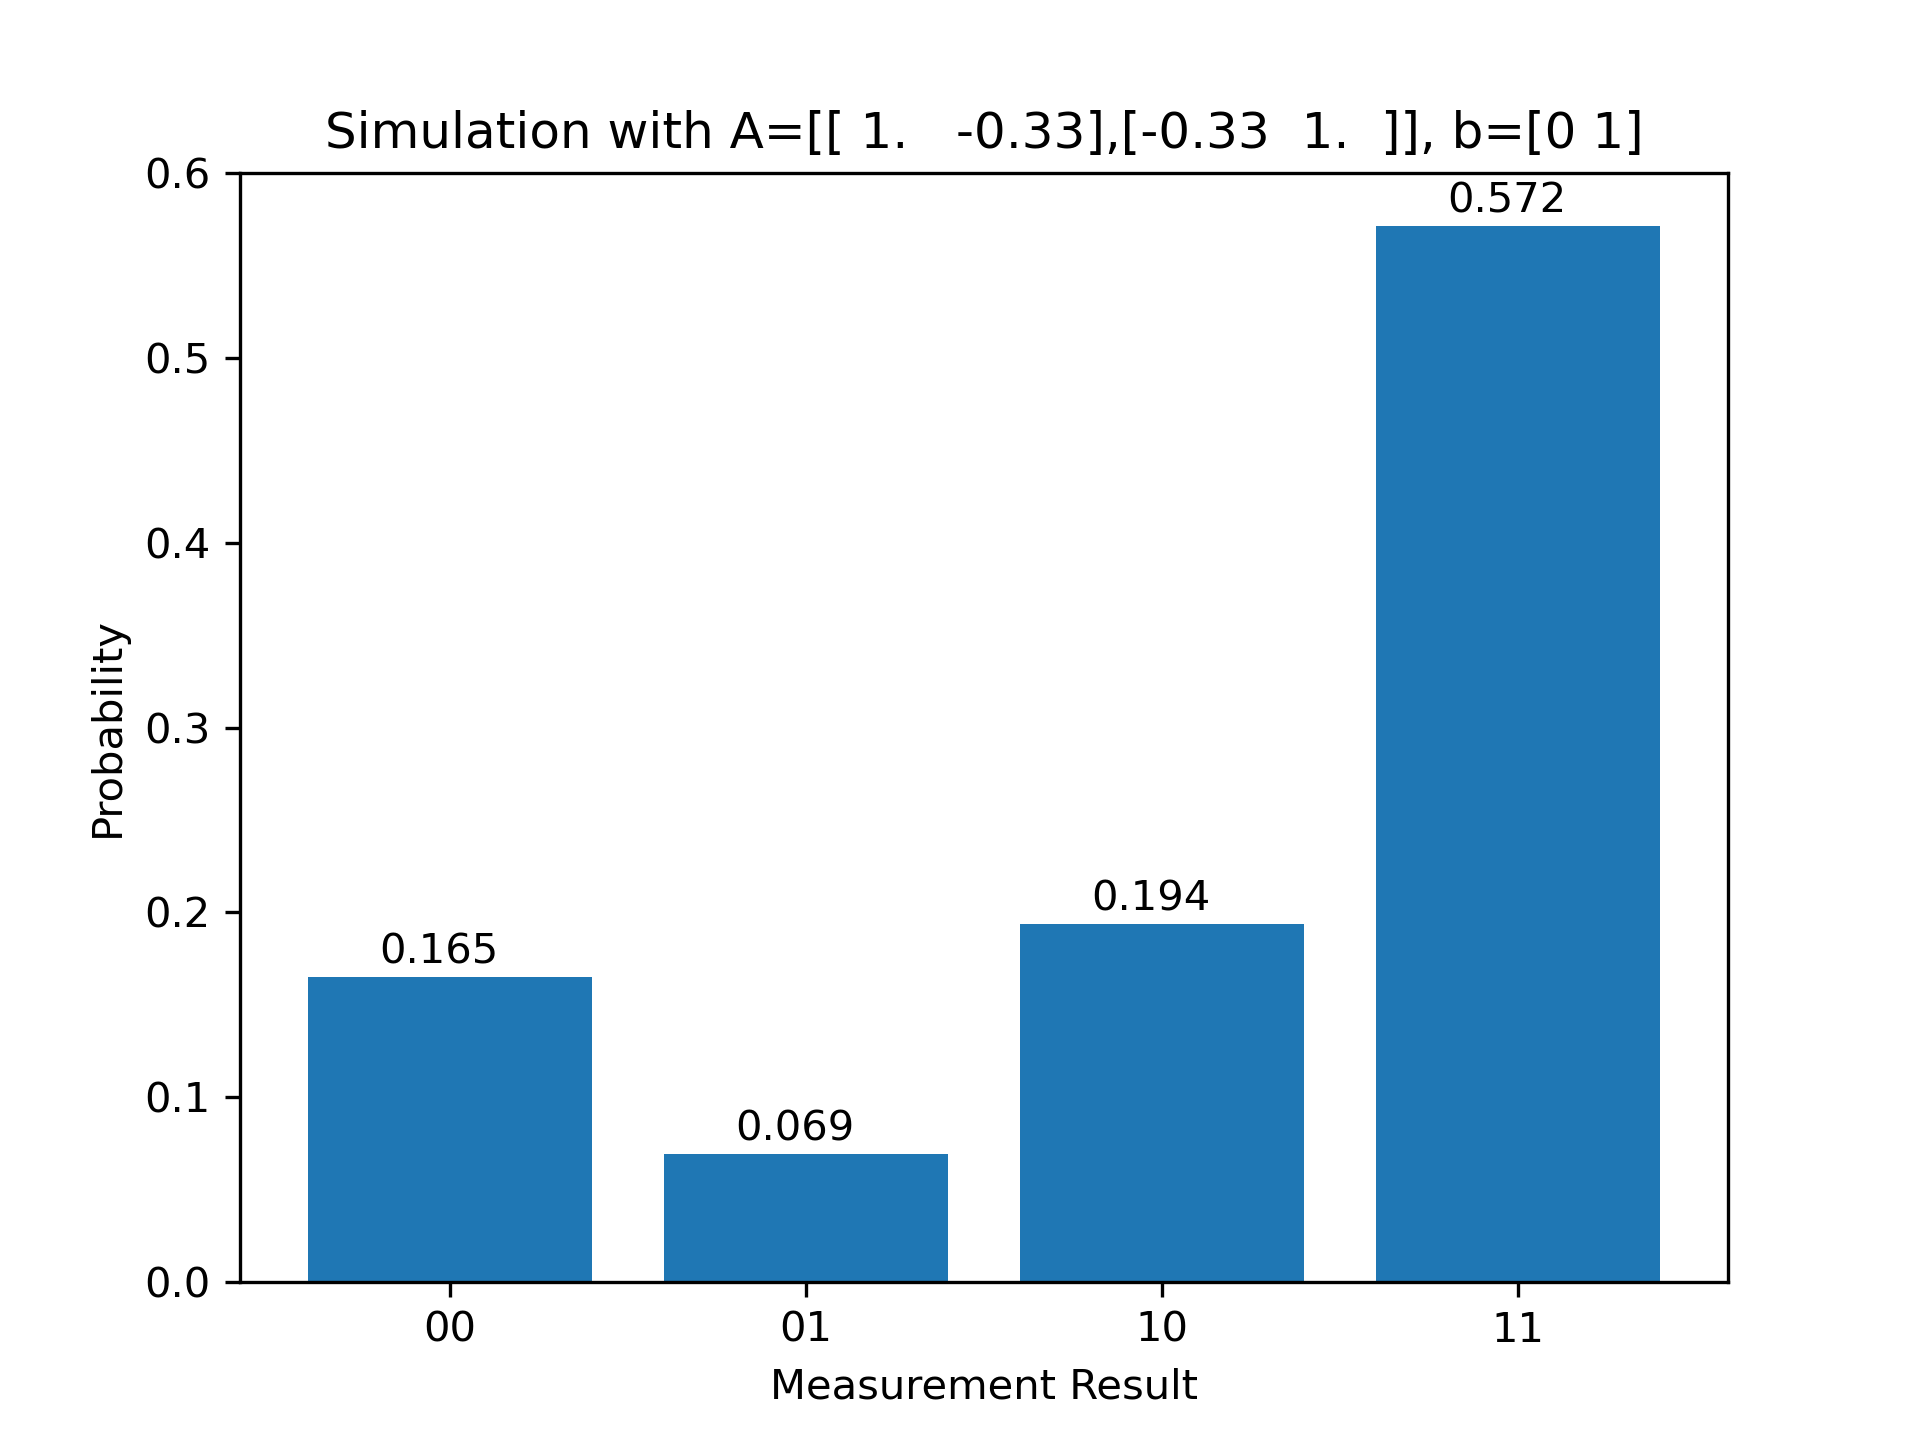
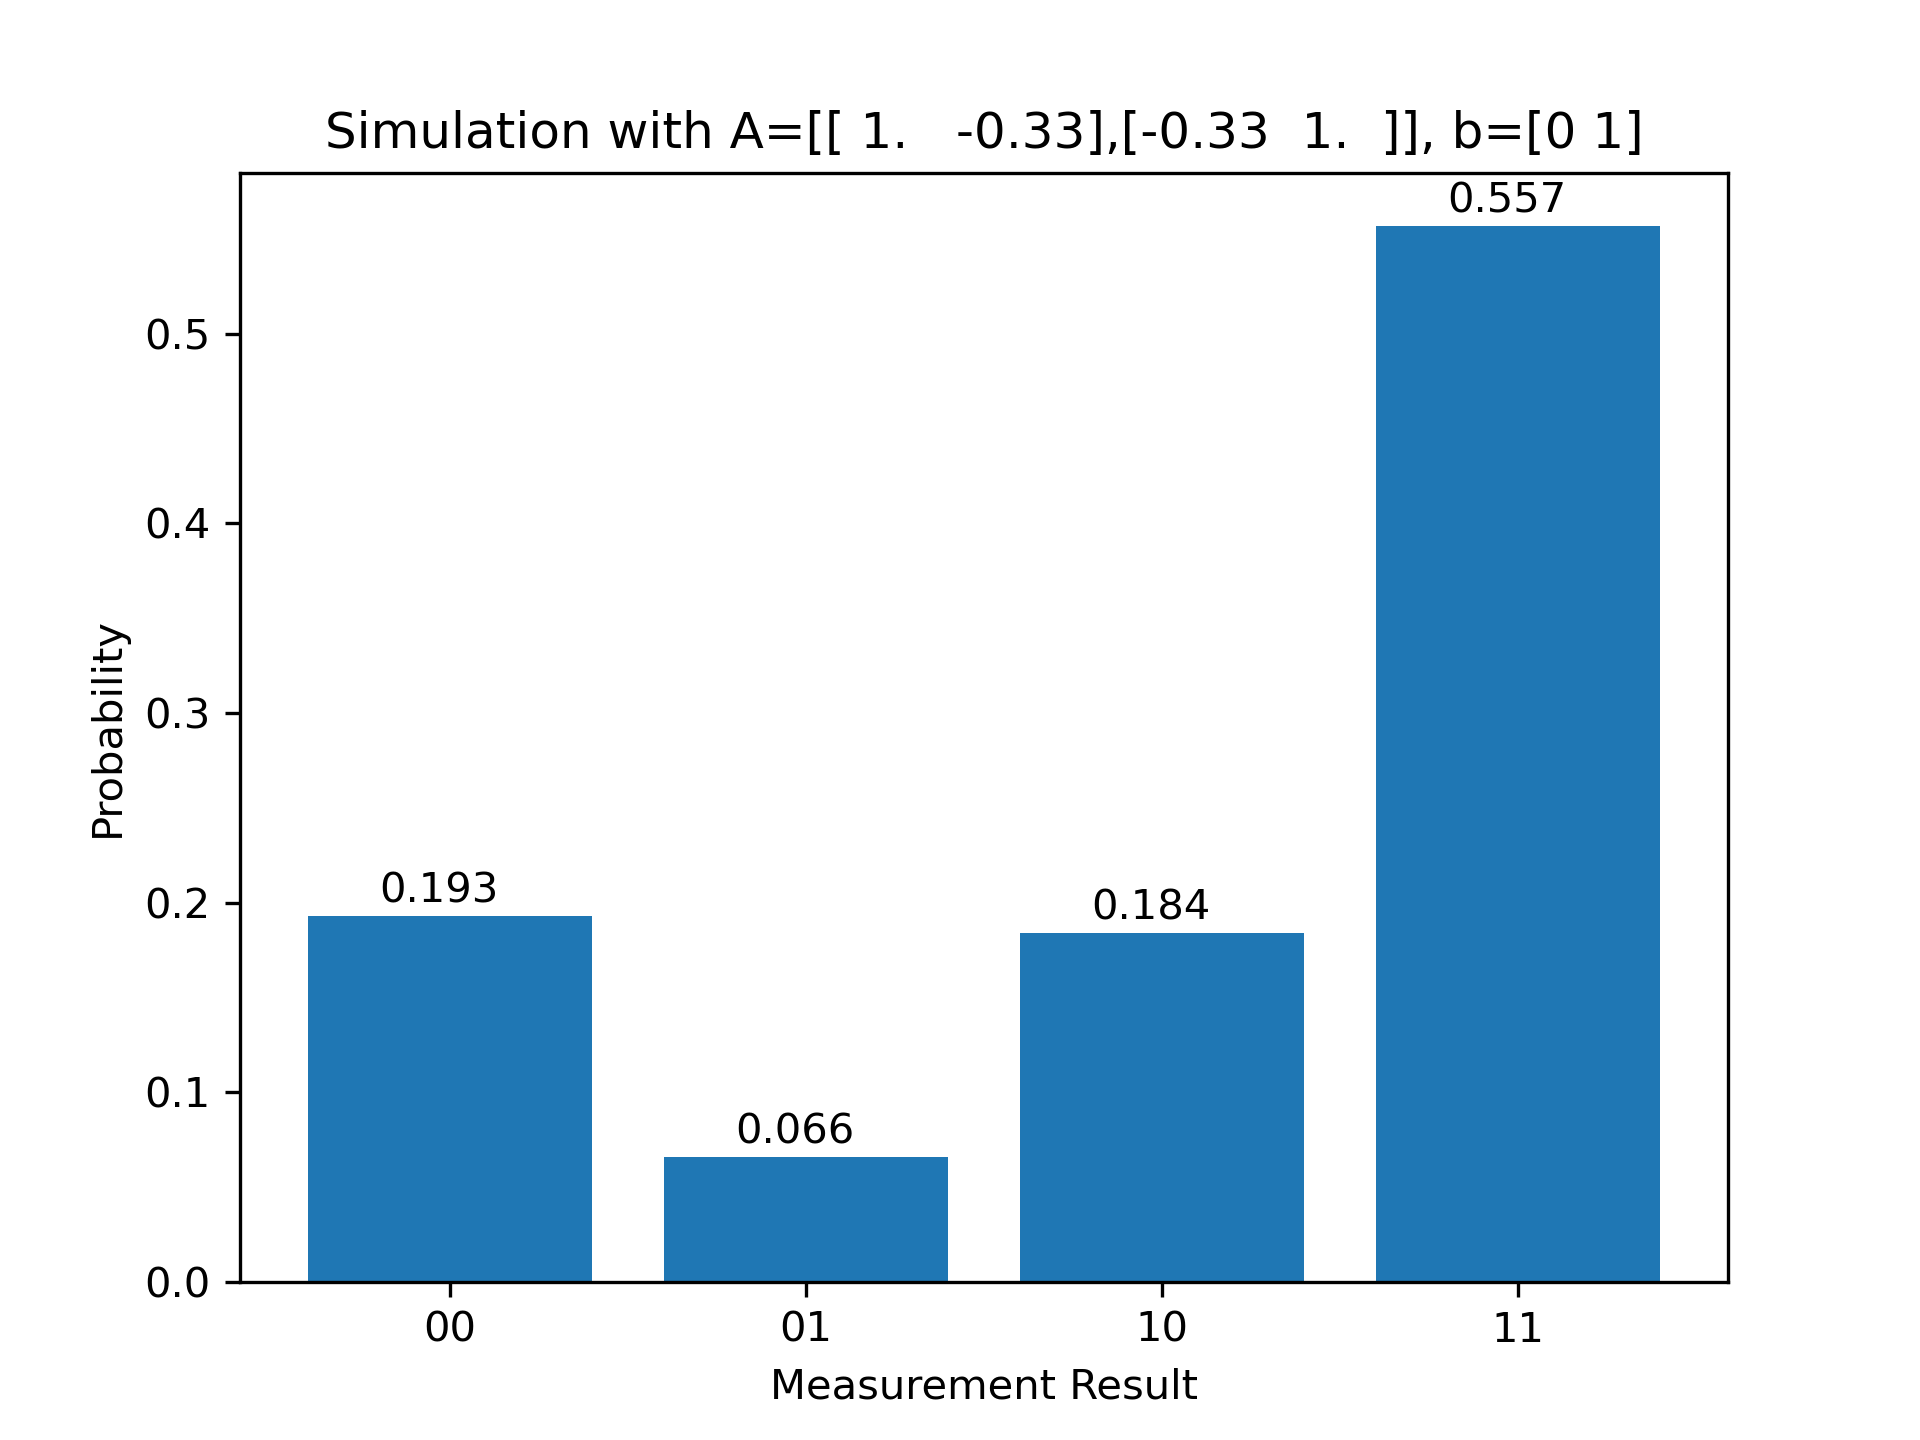
Fixed bug with second experiment simulation.

diff --git a/comparison.py b/comparison.py
@@ -54,14 +54,14 @@ def RY1(psi):
 
 def RY2(psi):
     psi = applyToffoli(psi, 2, 3, 5)
-    psi.ApplyCRotationY(5, 0, 2*np.arcsin(1/6))
+    psi.ApplyCRotationY(5, 0, np.pi)
     psi = applyToffoli(psi, 2, 3, 5)
     psi = applyToffoli(psi, 1, 2, 5)
     psi = applyToffoli(psi, 3, 5, 6)
-    psi.ApplyCRotationY(6, 0, 2*np.arcsin(1/7))
+    psi.ApplyCRotationY(6, 0, np.pi/3.)
     psi = applyToffoli(psi, 3, 5, 6)
     psi = applyToffoli(psi, 1, 2, 5)
     return psi
 
-# runExperiment(np.array([[1 , -1/3], [-1/3 , 1]]), np.array([0, 1]), RY1, 3 * np.pi / 4, 4, 0, emFig='em1.png', simFig='sim1.png')
-runExperiment(np.array([[13/2., -1/2.], [-1/2., 13/2]]), np.array([0, 1]), RY2, np.pi/4, 5, 2, shots=100, emFig='em2.png', simFig='sim2.png')
+runExperiment(np.array([[1 , -1/3], [-1/3 , 1]]), np.array([0, 1]), RY1, 3 * np.pi / 4, 4, 0, emFig='em1.png', simFig='sim1.png')
+runExperiment(np.array([[13/2., -1/2.], [-1/2., 13/2]]), np.array([0, 1]), RY2, np.pi/4, 5, 2, emFig='em2.png', simFig='sim2.png')
